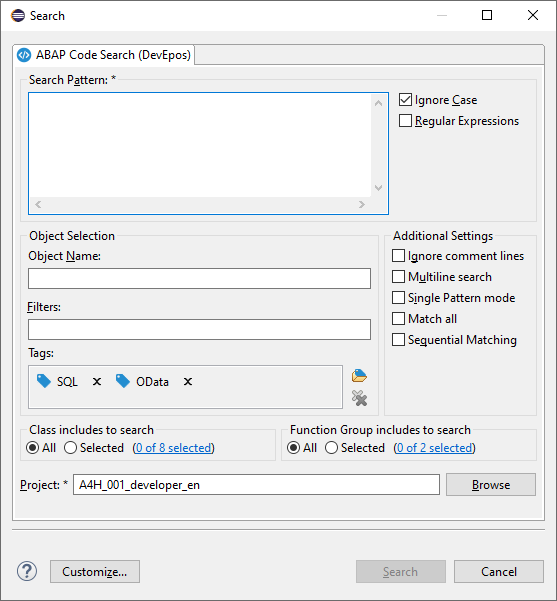
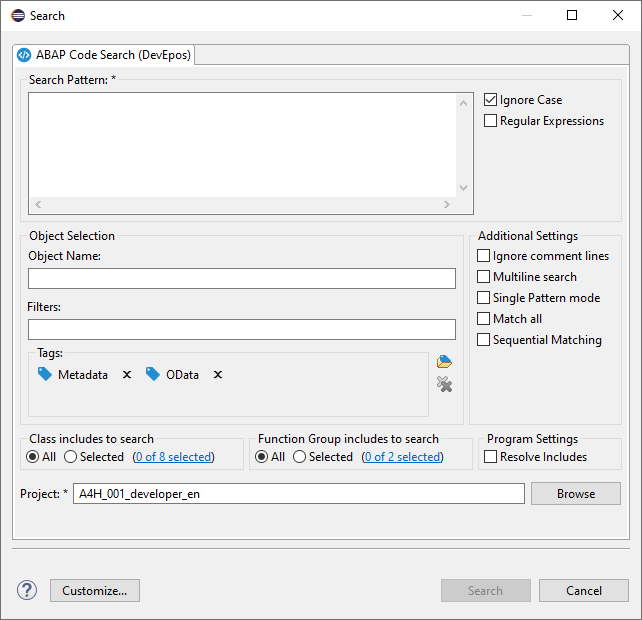
docs(help): add help docs for expand includes feature

diff --git a/com.devepos.adt.codesearch.doc/html/code_search/search_dialog.html b/com.devepos.adt.codesearch.doc/html/code_search/search_dialog.html
@@ -150,7 +150,7 @@
 		ABAP project.
 	</div>
 
-	<h4 class="heading">Examples for Object Selection</h4>
+	<h5 class="heading">Examples for Object Selection</h5>
 	<ul class="list">
 		<li class="p-b-m">Object Name: <code class="code">!/ z</code><br>All
 			objects <em>not</em> starting with "/" and all objects starting with
@@ -190,6 +190,28 @@
 		<img src="../../images/IncludeSpecification.png">
 		<figcaption>
 			<strong>Figure 3:</strong> Content Assist for options for a filter
+		</figcaption>
+	</figure>
+
+	<h4 id="program-expand-includes" class="heading">Settings for Programs</h4>
+	<p>
+		Sometimes the source code of a program can be structured into one or
+		several includes. For an easy <em>deep</em> search of such programs,
+		there is the option <em>Expand Includes</em>.
+	</p>
+	<figure>
+		<img src="../../images/CodeSearchView-ExpandIncludes-Setting.png">
+		<figcaption>
+			<strong>Figure 4:</strong> Expand Include Setting
+		</figcaption>
+	</figure>
+	<p>If this setting is active the program itself and all includes of
+		the program are searched. The results of the includes are conveniently
+		structured as child nodes of the program</p>
+	<figure>
+		<img src="../../images/CodeSearch-Result-ExpandedReport.png">
+		<figcaption>
+			<strong>Figure 5:</strong> Result in Include of Program
 		</figcaption>
 	</figure>
 

diff --git a/com.devepos.adt.codesearch.doc/html/code_search/searching_code.html b/com.devepos.adt.codesearch.doc/html/code_search/searching_code.html
@@ -88,10 +88,13 @@
 	<div class="alert info">
 		<div class="alert-info__text"></div>
 		<ol class="list">
-			<li id="fn-1">Plug-in <strong>ABAP Search and Analysis</strong>
-				necessary
+			<li id="fn-1">Plug-in <a target="_blank"
+				href="https://marketplace.eclipse.org/content/abap-search-and-analysis-tools">ABAP
+					Search and Analysis</a> necessary
 			</li>
-			<li id="fn-2">Plug-in <strong>ABAP Tags</strong> necessary
+			<li id="fn-2">Plug-in <a target="_blank"
+				href="https://marketplace.eclipse.org/content/abap-tags">ABAP
+					Tags</a> necessary
 			</li>
 		</ol>
 	</div>

diff --git a/com.devepos.adt.codesearch.doc/html/changelog/v1_4_0.html b/com.devepos.adt.codesearch.doc/html/changelog/v1_4_0.html
@@ -11,6 +11,11 @@
 	<h3 class="heading">ABAP Code Search</h3>
 	<h4>Features</h4>
 	<ul class="list">
+		<li>Adds new option <a
+			href="../code_search/search_dialog.html#program-expand-includes"><em>Expand
+					Includes</em></a> for program types, that allows searching of includes of a
+			program
+		</li>
 		<li>Enhance filter transfer if Code Search is called from context
 			menu of Project Explorer</li>
 		<li>The Code Search Dialog can now also be opened from the
